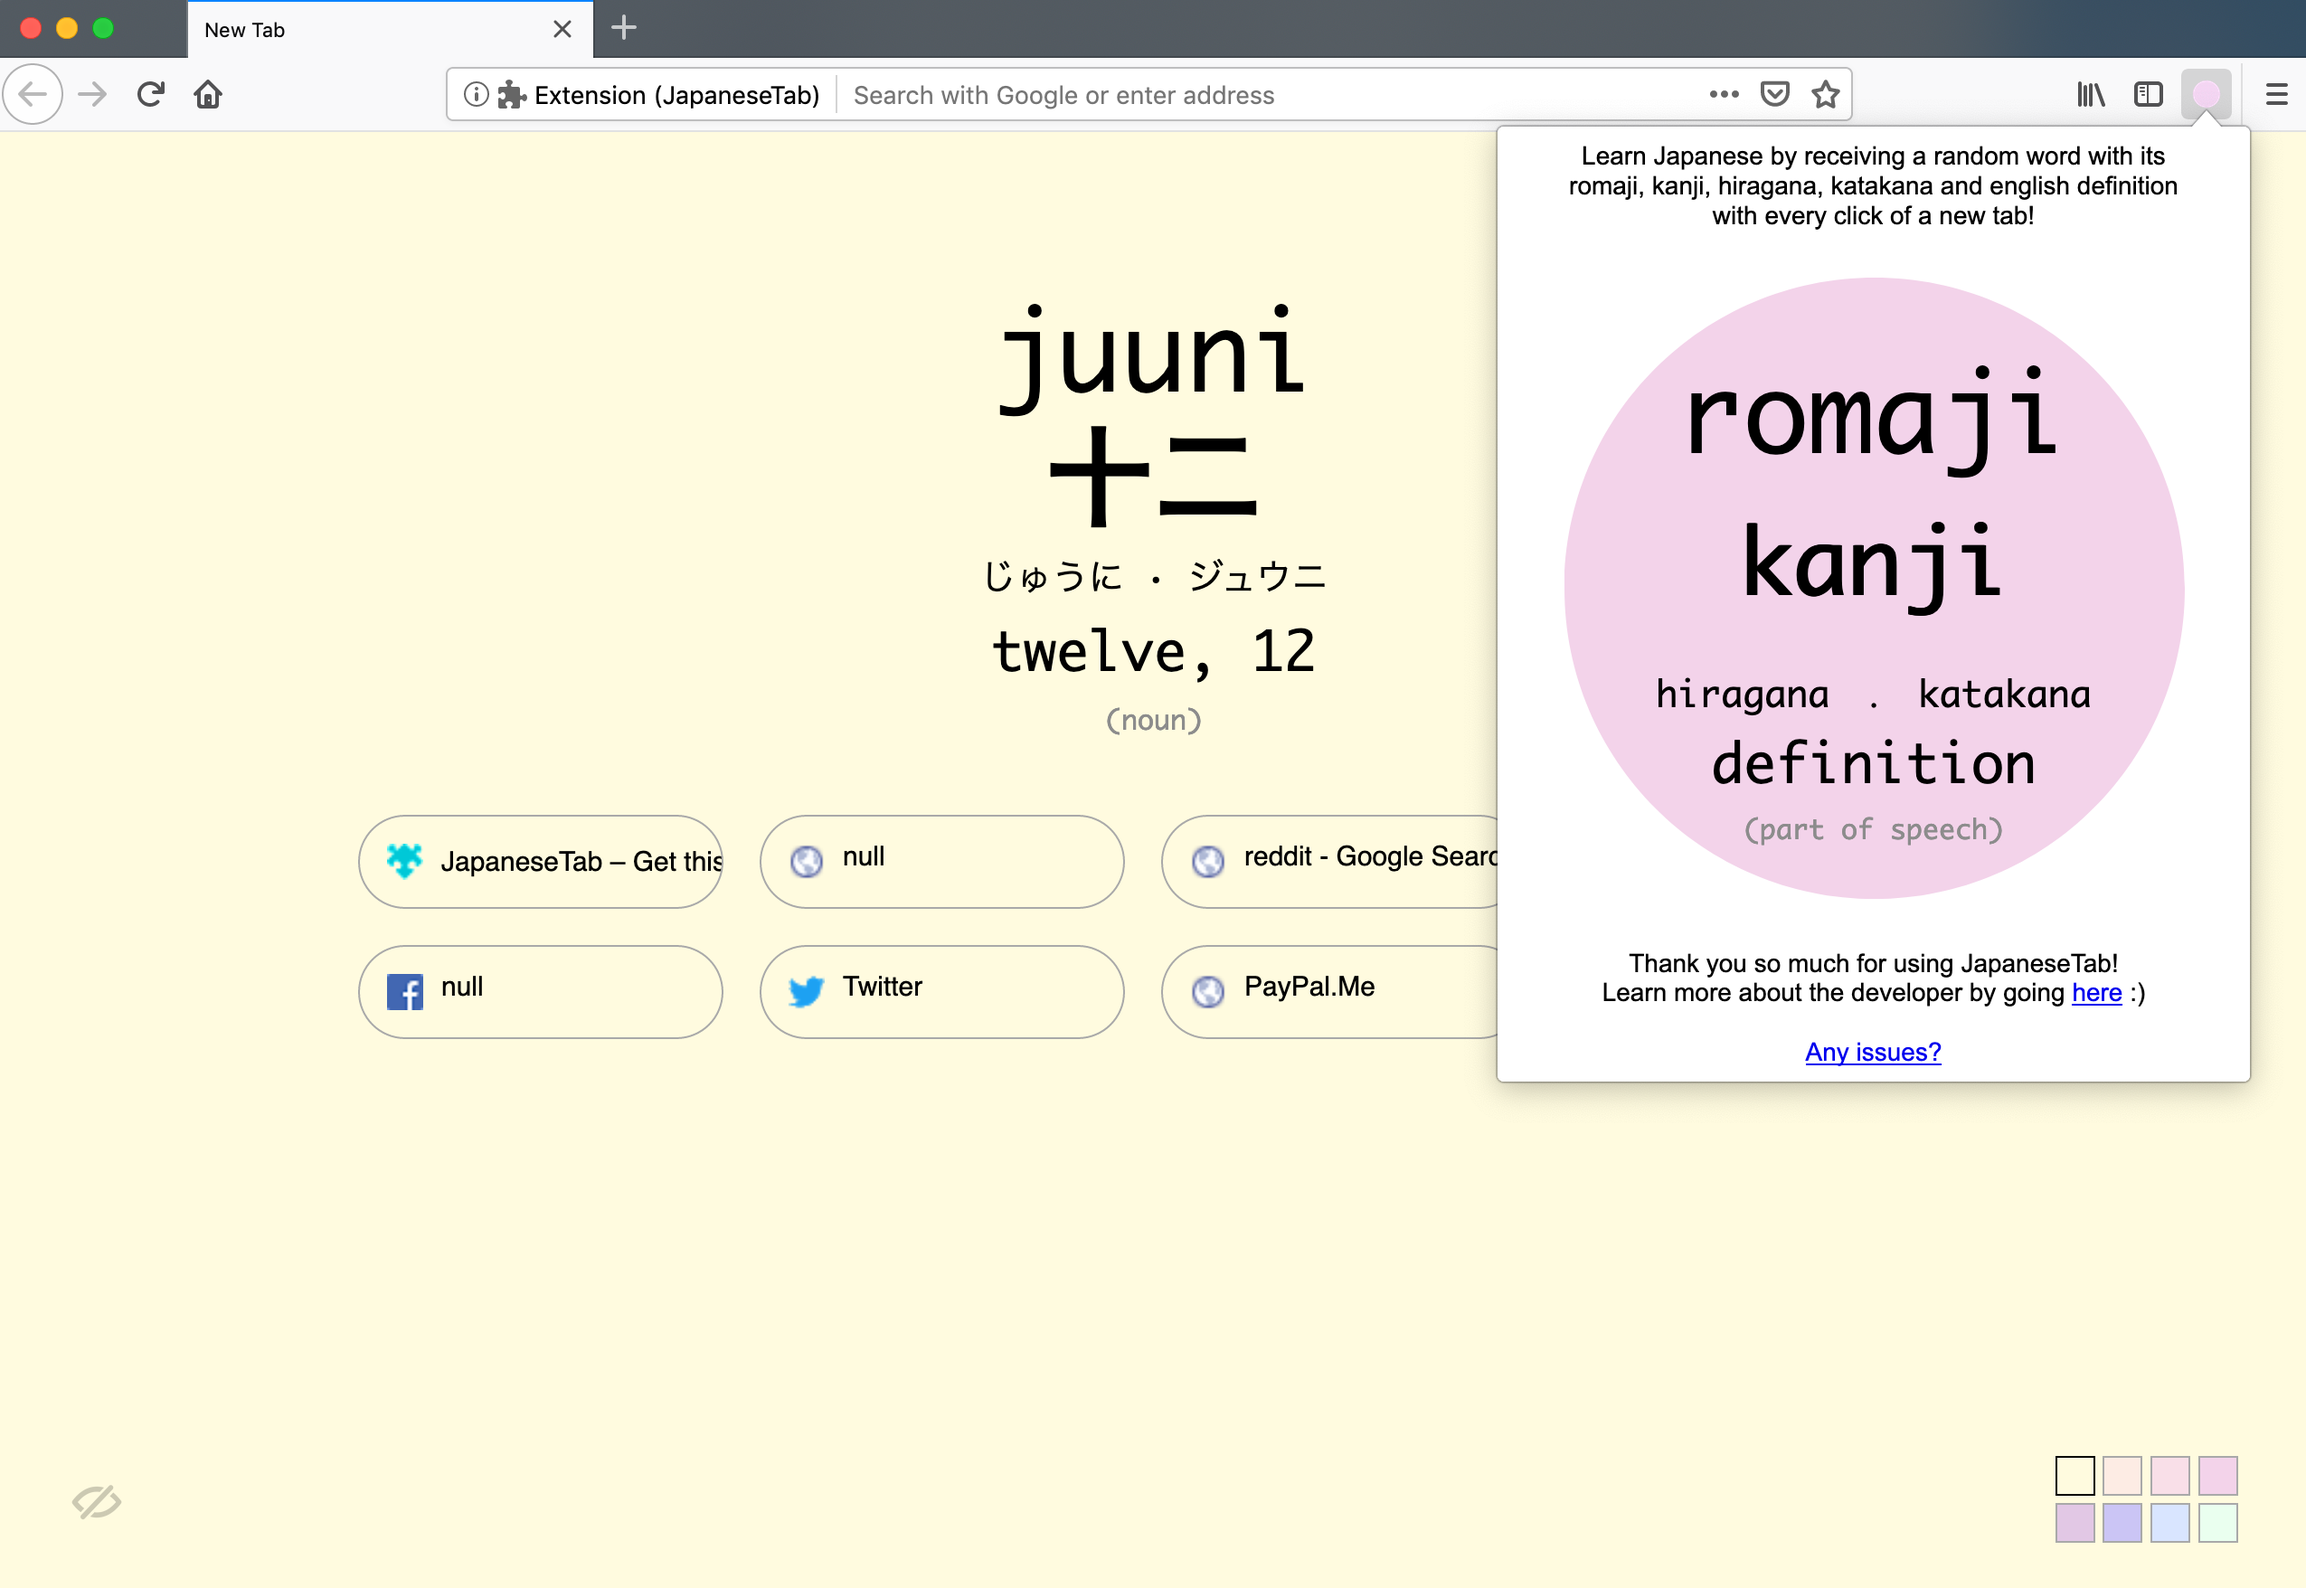
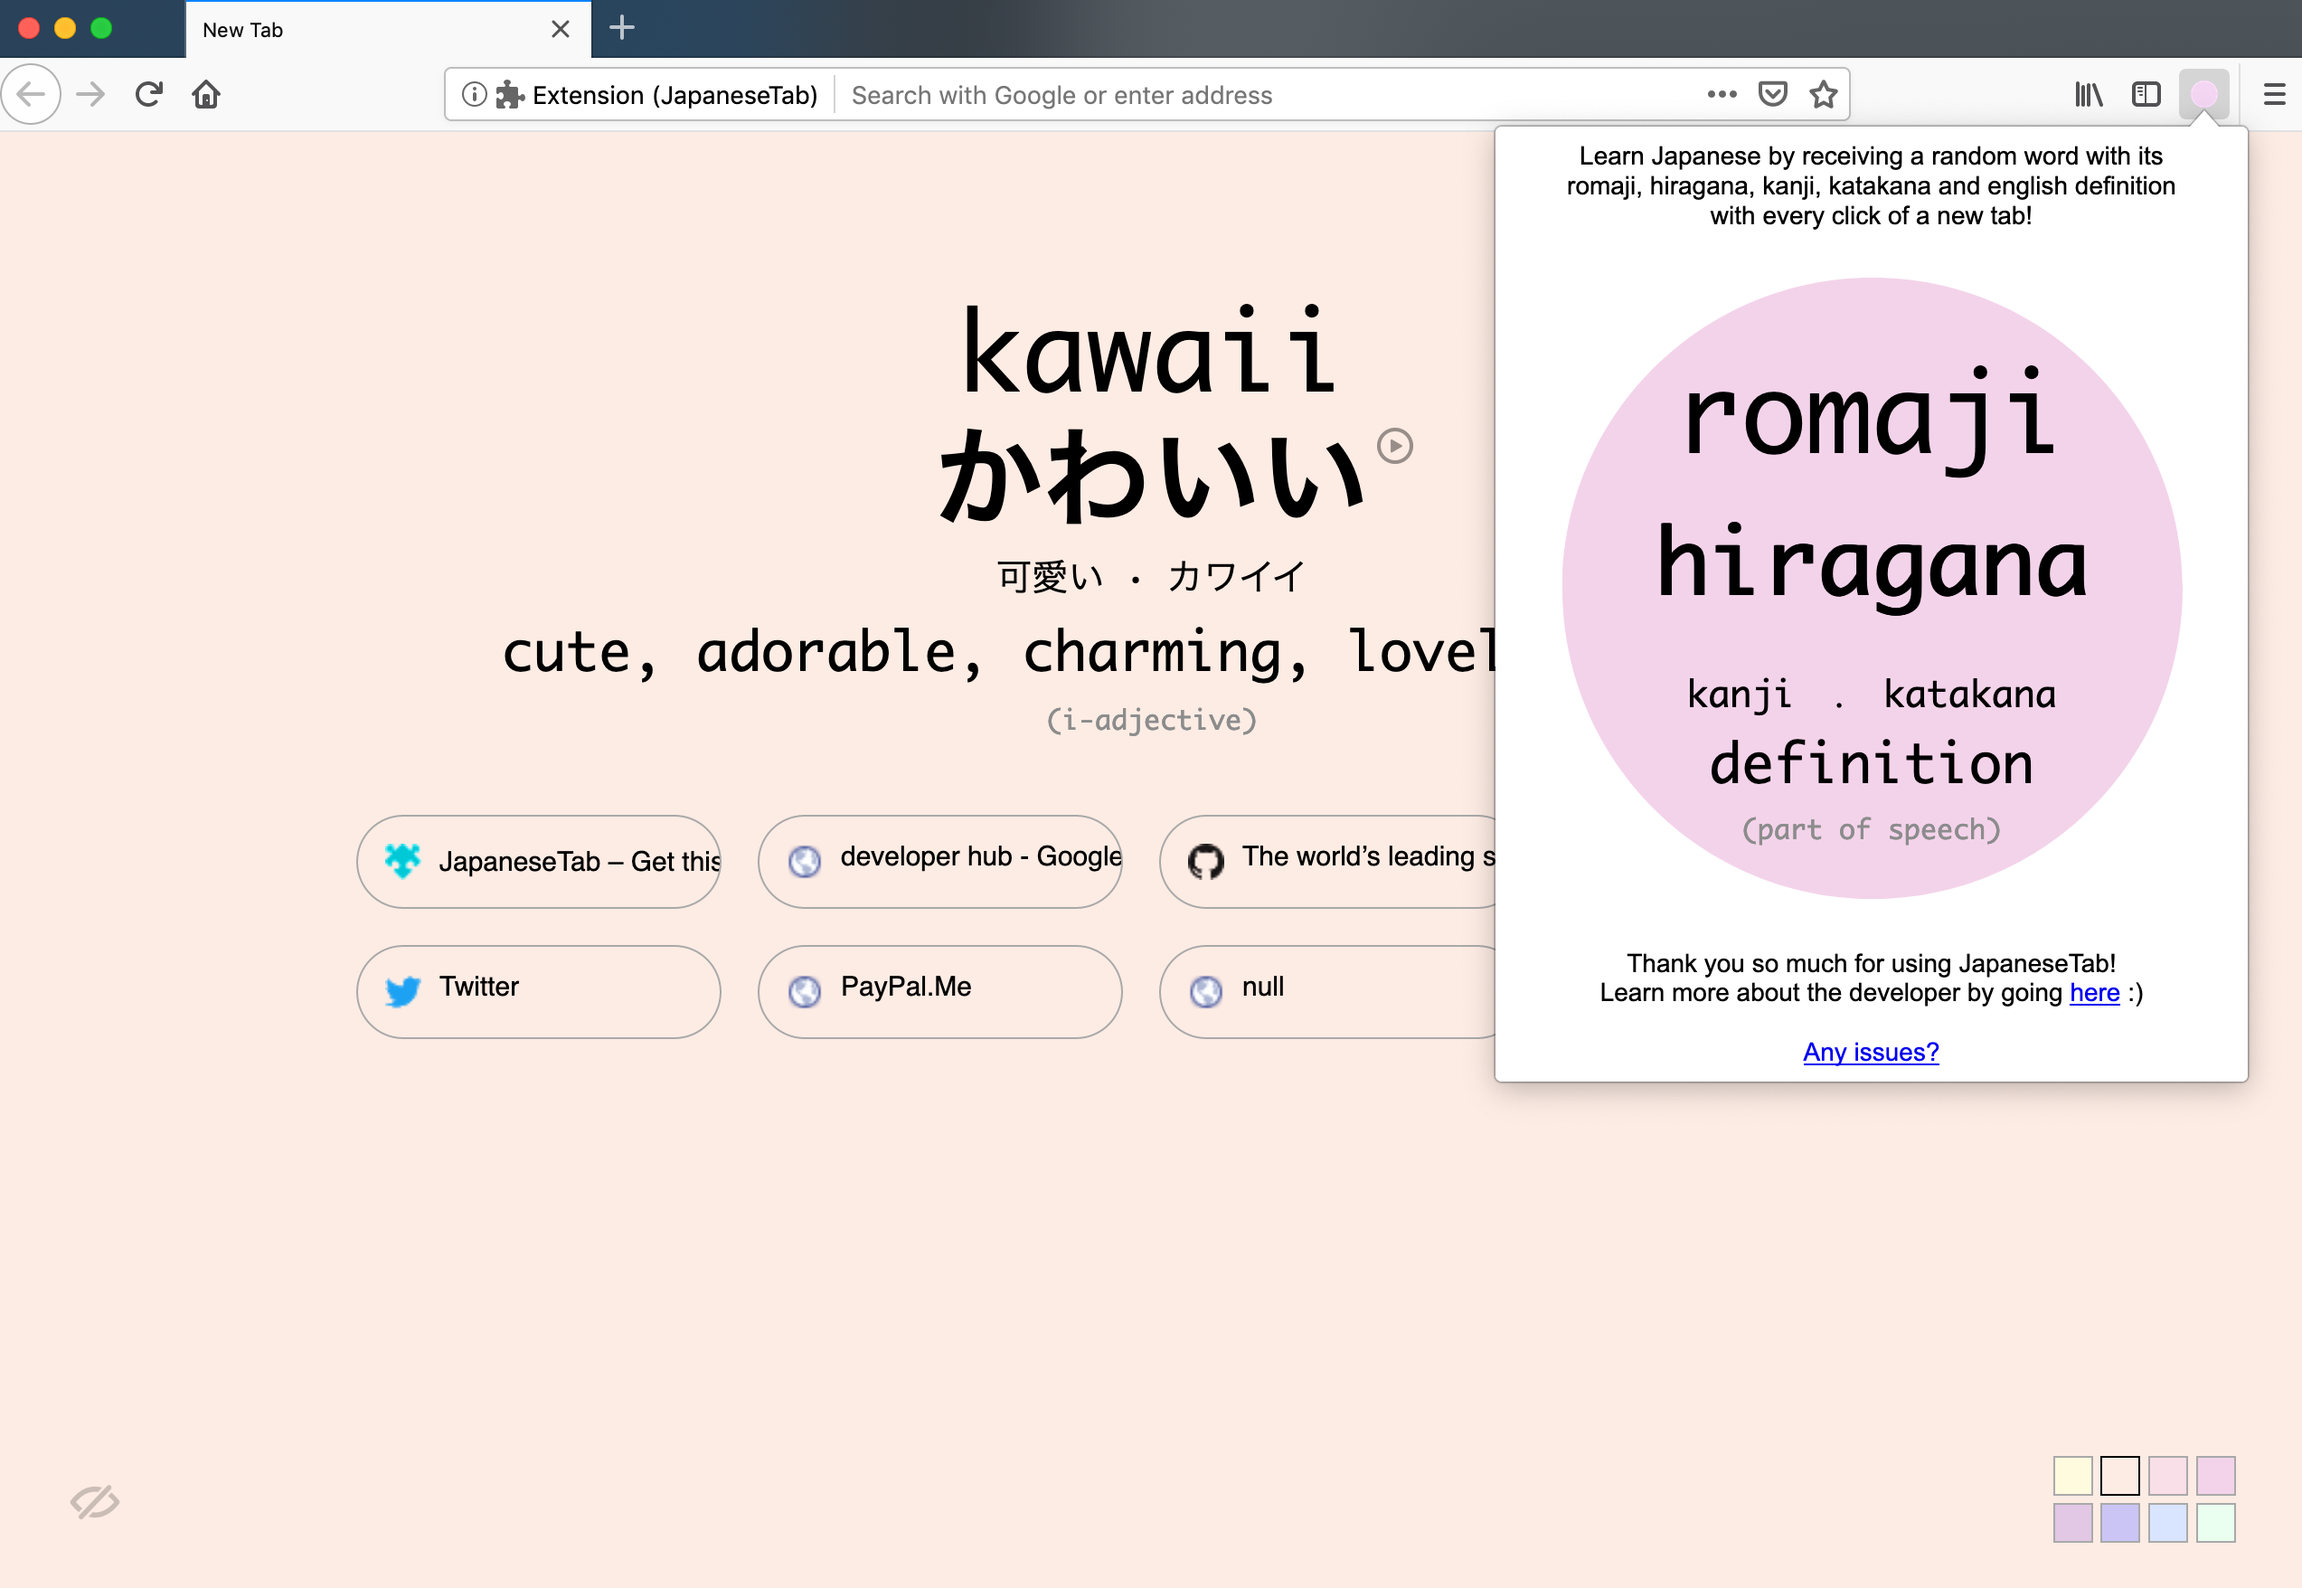
switched hiragana and kanji positions

diff --git a/popup.html b/popup.html
@@ -10,7 +10,7 @@
   <body>
 
   	<p>
-    	Learn Japanese by receiving a random word with its romaji, kanji, hiragana, katakana and english definition with every click of a new tab!
+    	Learn Japanese by receiving a random word with its romaji, hiragana, kanji, katakana and english definition with every click of a new tab!
 	</p>
 
 	<div class="circle"></div><br><br><br>
@@ -18,18 +18,14 @@
 		<h1 class="romaji" id="romaji">romaji</h1>
 		<div>
 
-			<div class = "kanjiclass">
-				<a class="kanji" id="kanji">kanji</a>
+			<div class = "hiraganaclass">
+				<a class="hiragana" id="hiragana">hiragana</a>
 			</div>
 			<br>
-			<div class = "kanaclass">
-				<a class="hiragana" id="hiragana">hiragana</a>
+			<div class = "kaclass">
+				<a class="kanji" id="kanji">kanji</a>
 				<a class="dot"> . </a>
 				<a class="katakana" id="katakana">katakana</a>
-			</div>
-
-			<div class = "katakanaclass">
-				
 			</div>
 
 			<p class="definition" id="definition">definition</p>

diff --git a/vocab.html b/vocab.html
@@ -13,19 +13,15 @@
 	<h1 class="romaji" id="romaji"></h1>
 	<div>
 
-		<div class = "kanjiclass">
-			<a class="kanji" id="kanji"></a>
+		<div class = "hiraganaclass">
+			<a class="hiragana" id="hiragana"></a>
 			<a class="audio" id="audio"></a>
 		</div>
 
-		<div class = "kanaclass">
-			<a class="hiragana" id="hiragana"></a>
+		<div class = "kaclass">
+			<a class="kanji" id="kanji"></a>
 			<a class="dot">•</a>
 			<a class="katakana" id="katakana"></a>
-		</div>
-
-		<div class = "katakanaclass">
-			
 		</div>
 
 		<p class="definition" id="definition"></p>

diff --git a/vocab.css b/vocab.css
@@ -90,13 +90,13 @@ a {
 	font-family: "Lucida Console", "Lucida Sans Typewriter", monaco, "Bitstream Vera Sans Mono", monospace; 
 }
 
-.kanjiclass {
+.hiraganaclass {
 	position: relative;
 	margin-top: -5vh;
 	margin-left: 3vh;
 }
 
-.kanji {
+.hiragana {
 	text-align: center;
 	font-size: 60px;
 	font-weight: 900;
@@ -111,12 +111,12 @@ a {
 	cursor: pointer;
 }
 
-.kanaclass {
+.kaclass {
 	position: relative;
 	padding-top: 1vh;
 }
 
-.hiragana {
+.kanji {
 	font-weight: 100;
 	font-size: 20px;	
 	margin-right: 10px;

diff --git a/popup.css b/popup.css
@@ -34,24 +34,24 @@ p {
 	z-index: 1;
 }
 
-.kanjiclass {
+.hiraganaclass {
 	position: relative;
 	margin-top: -6vh;
 }
 
-.kanji {
+.hiragana {
 	text-align: center;
 	font-size: 50px;
 	font-weight: 700;
 }
 
-.kanaclass {
+.kaclass {
 	position: relative;
 	padding-top: 1vh;
 	font-family: 
 }
 
-.hiragana {
+.kanji {
 	font-weight: 100;
 	font-size: 20px;	
 	margin-right: 10px;
